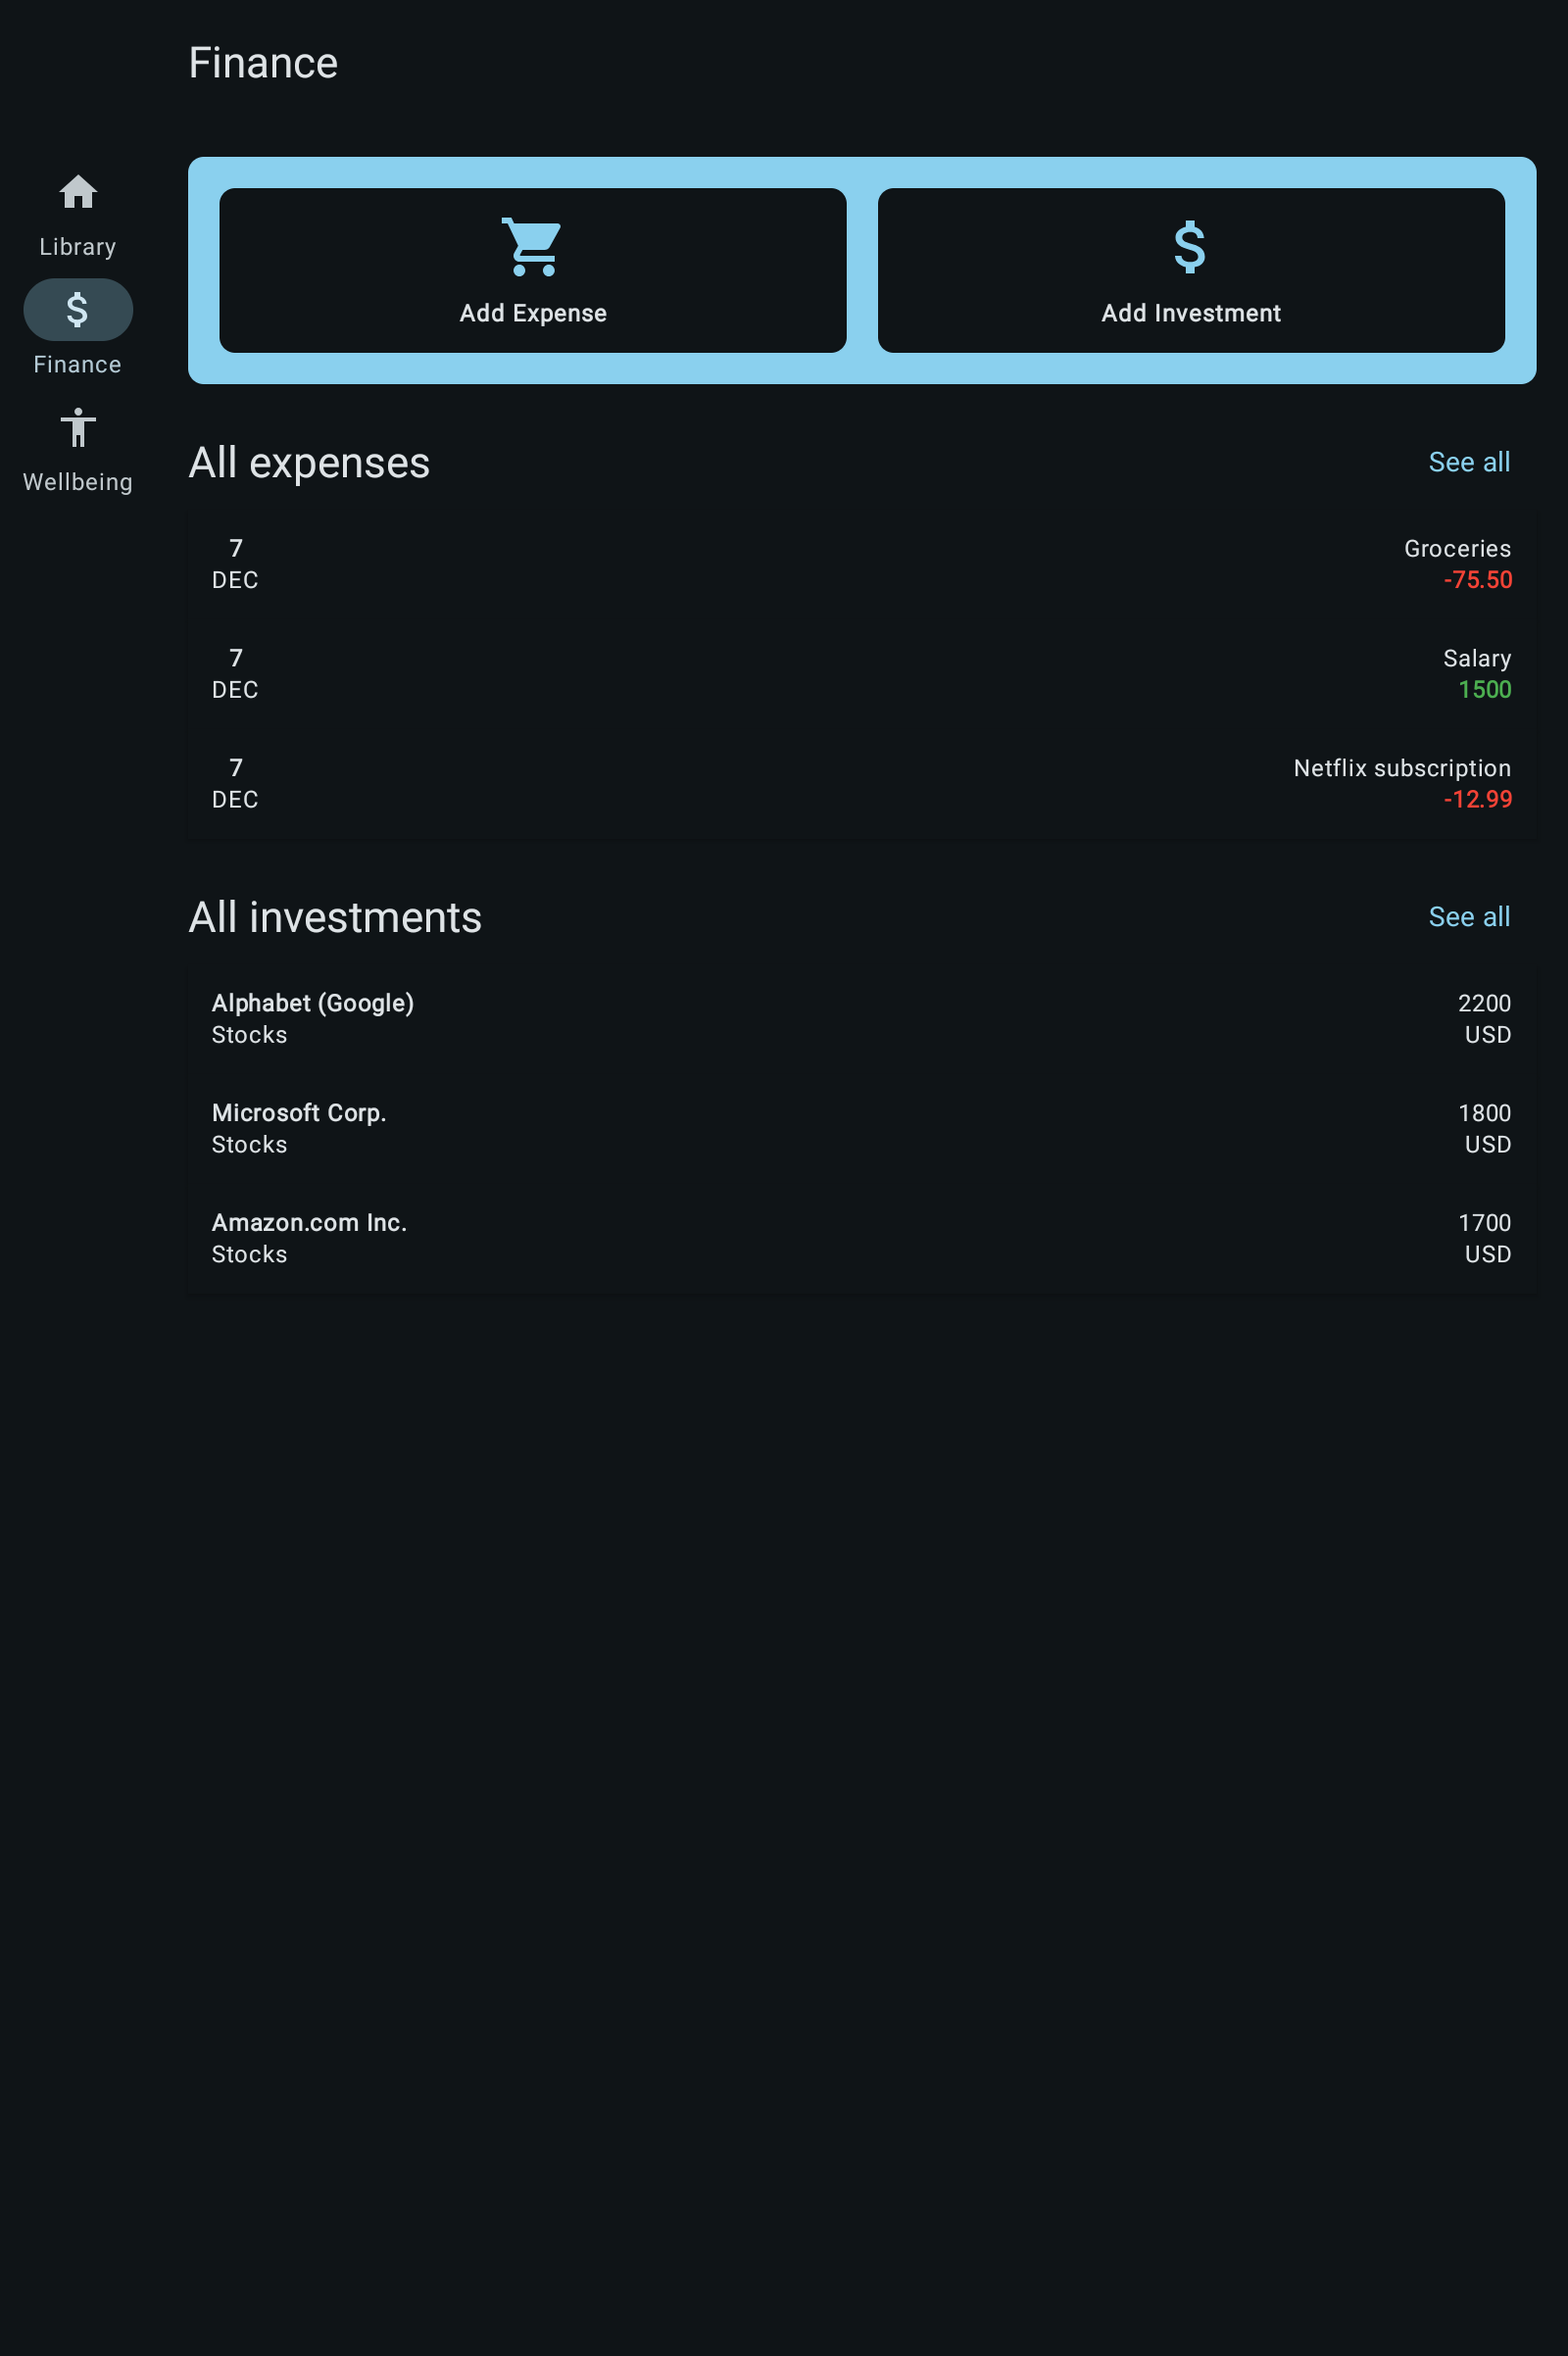
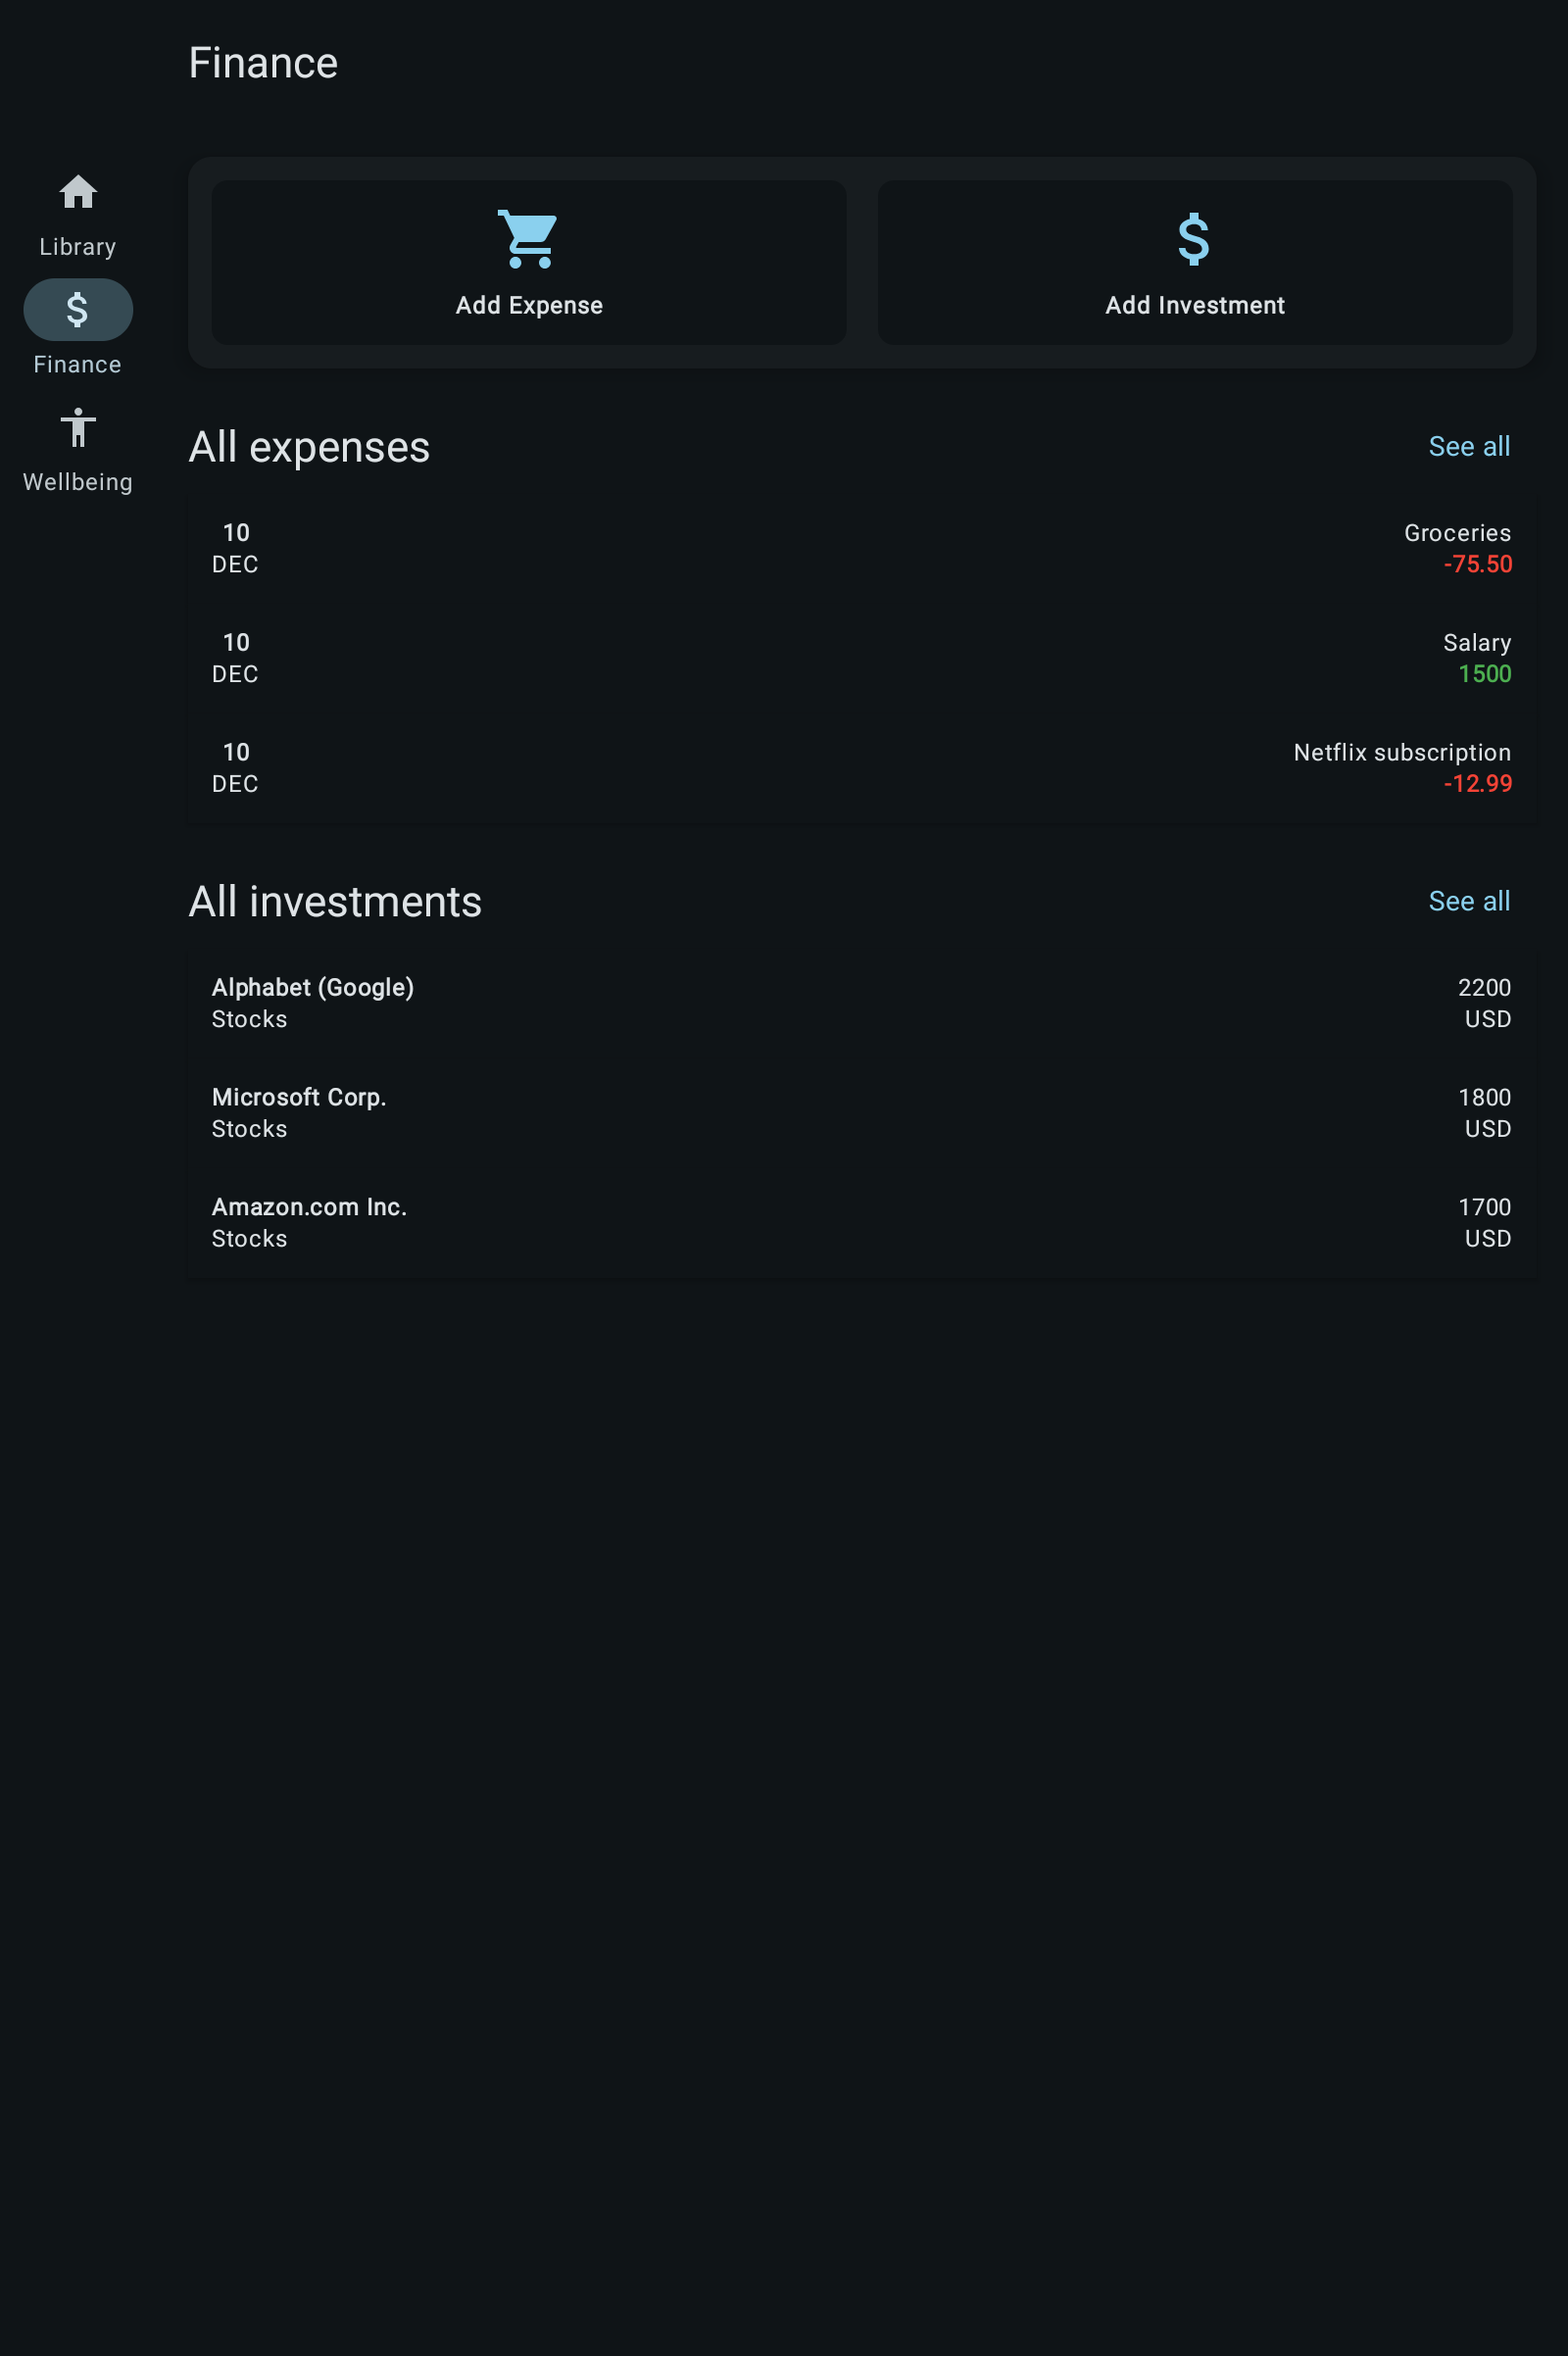
Release 25.12.1

diff --git a/RELEASE_NOTES.md b/RELEASE_NOTES.md
@@ -1,3 +1,9 @@
+## Release notes 25.12.1
+
+Improved:
+- Improved colors in dark mode.
+- Improved images for dark mode.
+
 ## Release notes 25.12.0
 
 Improved:
